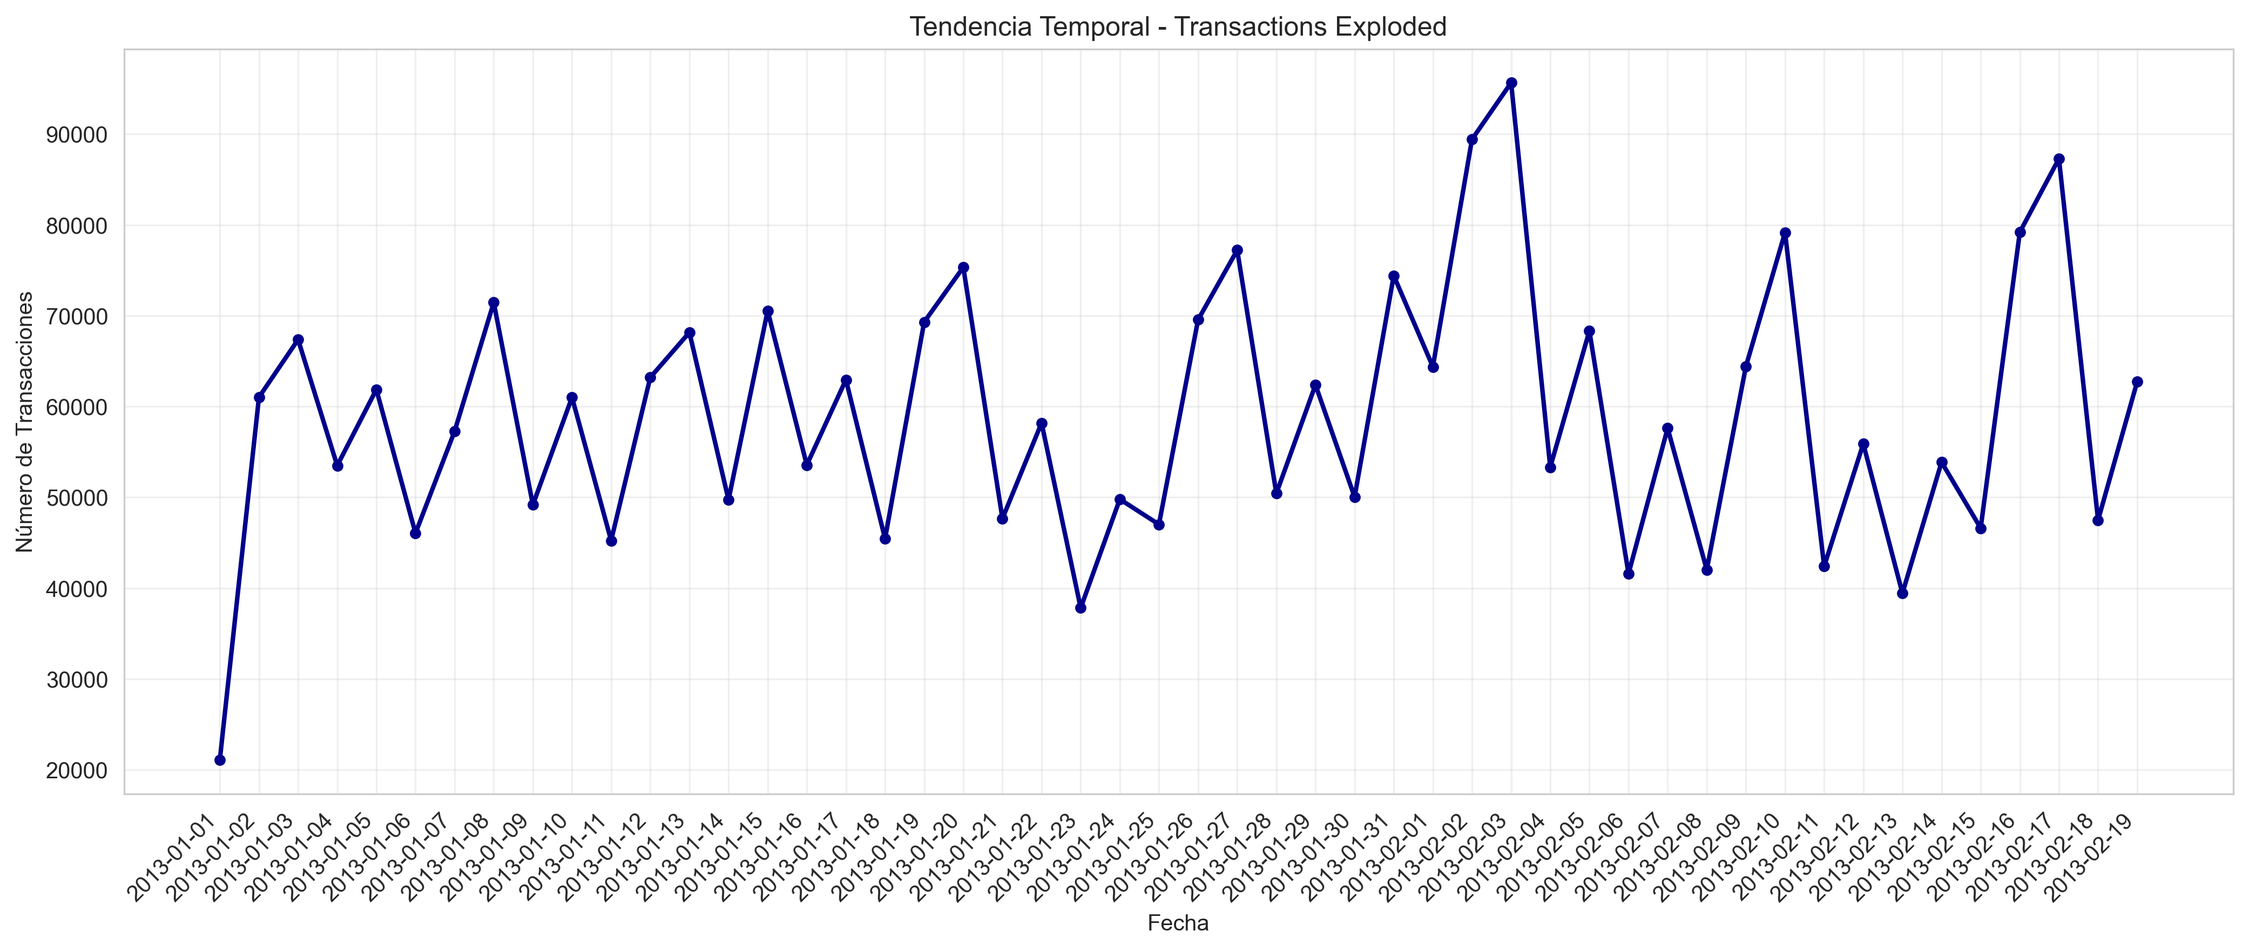
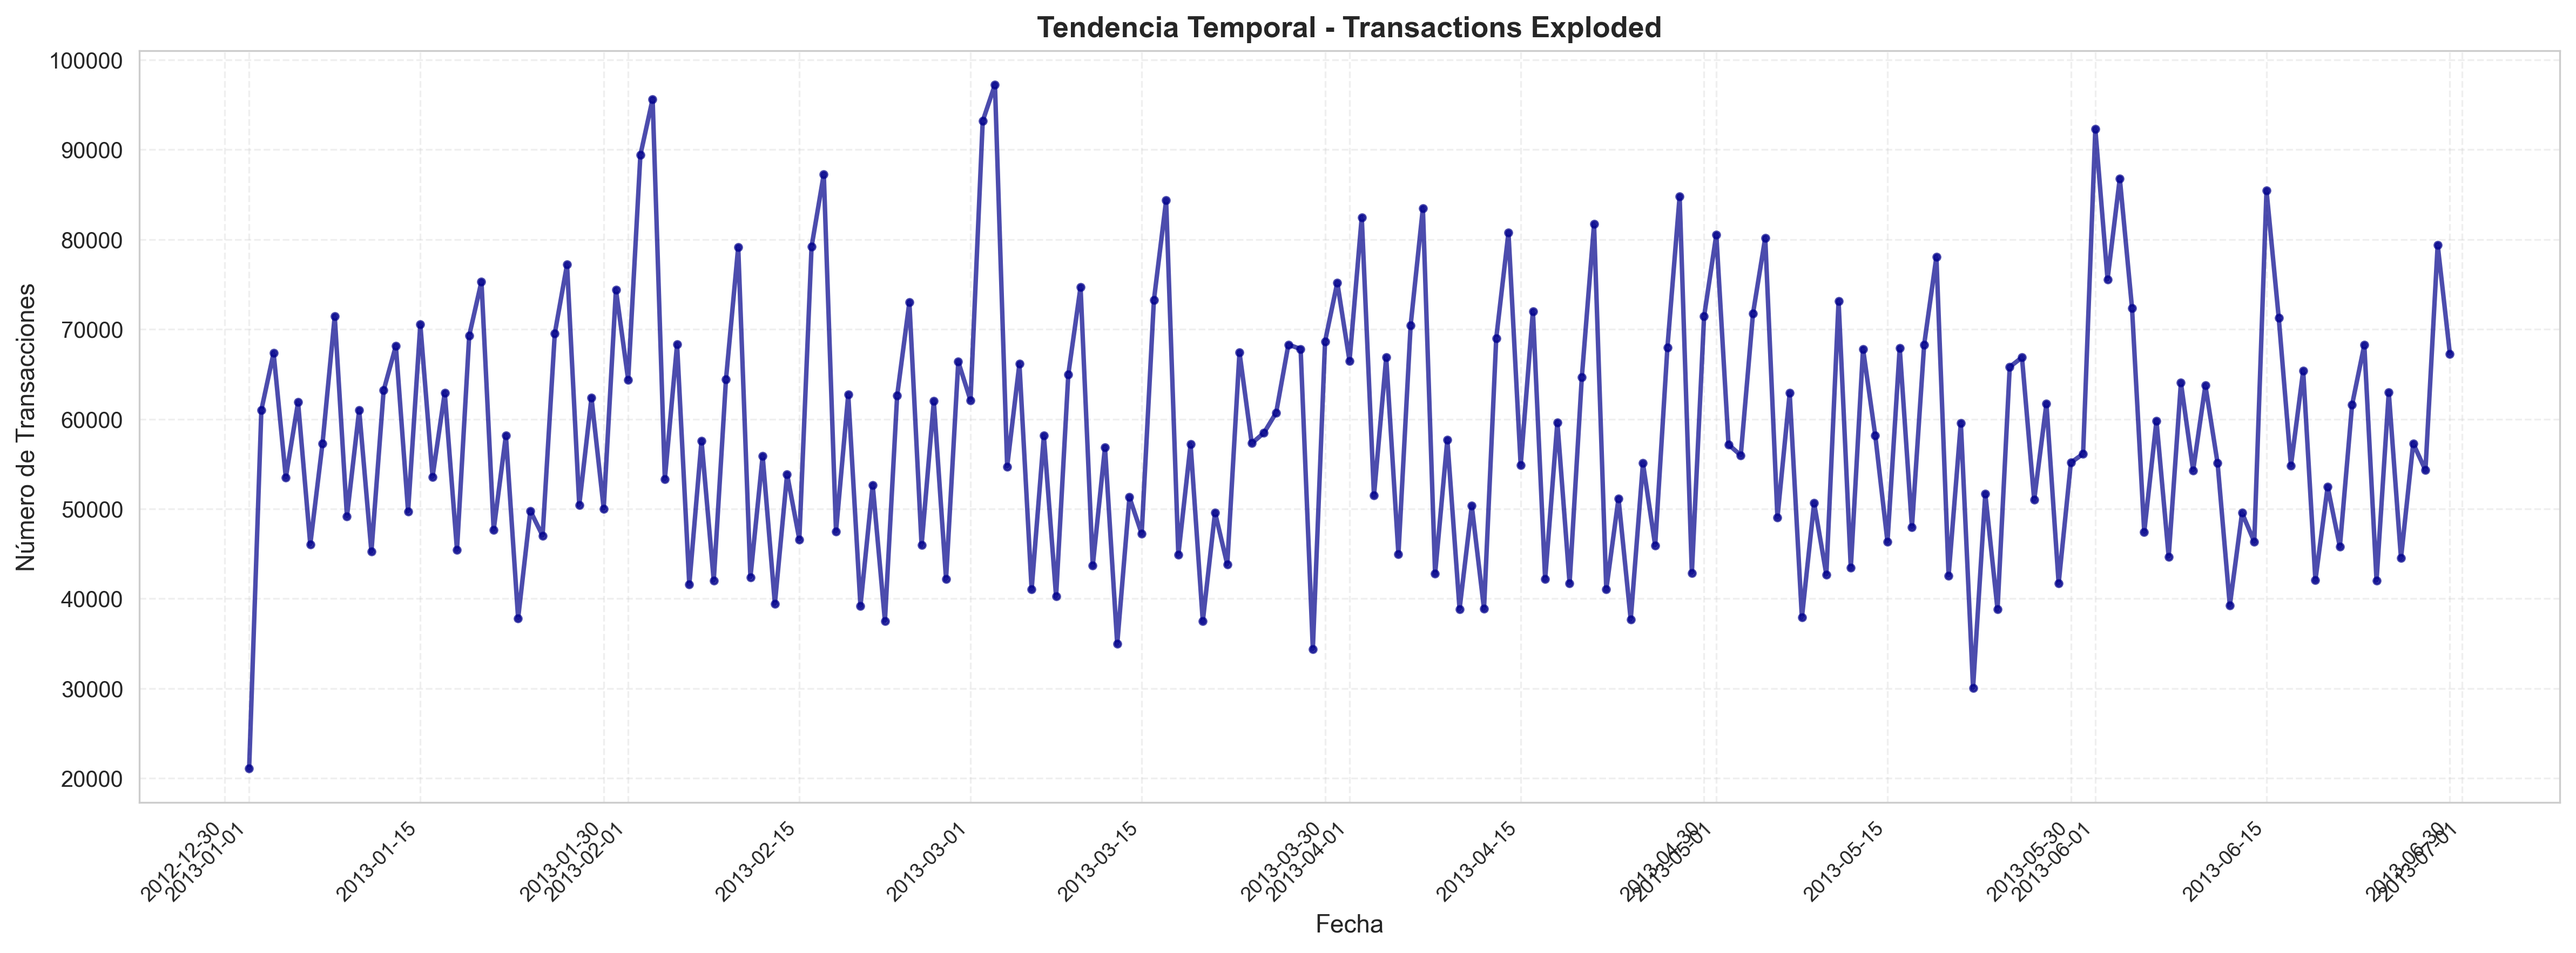
feat: enhance sales analytics pipeline with product count analysis and improve temporal trend visualization

diff --git a/src/visualizer.py b/src/visualizer.py
@@ -237,7 +237,7 @@ class DataVisualizer:
         print(f"   Gráfica guardada: {filepath}")
 
     def plot_temporal_trend(
-        self, df: DataFrame, date_column: str, dataset_name: str, sample_dates: int = 30
+        self, df: DataFrame, date_column: str, dataset_name: str, sample_dates: int = None
     ):
         """
         Genera gráfico de línea para tendencia temporal.
@@ -246,37 +246,52 @@ class DataVisualizer:
             df: DataFrame de Spark
             date_column: Columna de fecha
             dataset_name: Nombre del dataset
-            sample_dates: Número de fechas a mostrar (para evitar sobrecarga)
+            sample_dates: Número de fechas a mostrar
         """
         # Calcular transacciones por fecha
-        temporal_data = (
+        temporal_query = (
             df.groupBy(date_column)
             .agg(count("*").alias("count"))
             .orderBy(date_column)
-            .limit(sample_dates)
-            .toPandas()
         )
+        
+        if sample_dates:
+            temporal_query = temporal_query.limit(sample_dates)
+            
+        temporal_data = temporal_query.toPandas()
 
         if temporal_data.empty:
             print("ADVERTENCIA: No hay datos temporales para graficar")
             return
 
+        # Convertir columna de fecha a datetime para mejor manejo
+        import pandas as pd
+        temporal_data[date_column] = pd.to_datetime(temporal_data[date_column])
+
         # Crear gráfico
-        plt.figure(figsize=(14, 6))
+        plt.figure(figsize=(16, 6))
         plt.plot(
             temporal_data[date_column],
             temporal_data["count"],
             marker="o",
             linewidth=2,
-            markersize=4,
+            markersize=3,
             color="darkblue",
+            alpha=0.7
         )
 
-        plt.xlabel("Fecha")
-        plt.ylabel("Número de Transacciones")
-        plt.title(f"Tendencia Temporal - {dataset_name.replace('_', ' ').title()}")
-        plt.xticks(rotation=45, ha="right")
-        plt.grid(True, alpha=0.3)
+        plt.xlabel("Fecha", fontsize=11)
+        plt.ylabel("Número de Transacciones", fontsize=11)
+        plt.title(f"Tendencia Temporal - {dataset_name.replace('_', ' ').title()}", fontsize=13, fontweight='bold')
+        
+        # Configurar el eje X para mostrar días 1, 15 y 30 de cada mes (quincenas de pago)
+        import matplotlib.dates as mdates
+        ax = plt.gca()
+        ax.xaxis.set_major_locator(mdates.DayLocator(bymonthday=[1, 15, 30]))
+        ax.xaxis.set_major_formatter(mdates.DateFormatter('%Y-%m-%d'))
+        
+        plt.xticks(rotation=45, ha="right", fontsize=9)
+        plt.grid(True, alpha=0.3, linestyle='--')
         plt.tight_layout()
 
         # Guardar

diff --git a/src/pipeline.py b/src/pipeline.py
@@ -168,7 +168,17 @@ class SalesAnalyticsPipeline:
         self.eda_analyzer.analyze_missing_values(df_transactions, "transactions")
         self.eda_analyzer.analyze_duplicates(df_transactions, "transactions")
 
-        # Los IDs (store_id, customer_id) no requieren estadísticas como media o desviación
+        # Analizar cantidad de productos por transacción
+        from pyspark.sql.functions import size, split, trim, col
+        print("\n📊 Análisis de productos por transacción:")
+        print("-" * 60)
+        df_with_count = df_transactions.withColumn(
+            "num_productos", size(split(trim(col("products")), " "))
+        )
+        self.eda_analyzer.analyze_numeric_columns(
+            df_with_count, "transactions", numeric_columns=["num_productos"]
+        )
+
         # Analizamos cardinalidad y patrones de uso
         print("\n🔢 Análisis de cardinalidad de IDs:")
         print("-" * 60)
@@ -206,7 +216,7 @@ class SalesAnalyticsPipeline:
             ylabel="Customer ID",
         )
         self.visualizer.plot_temporal_trend(
-            df_transactions, "transaction_date", "transactions", sample_dates=50
+            df_transactions, "transaction_date", "transactions", sample_dates=None
         )
 
         df_transactions.unpersist()
@@ -280,7 +290,7 @@ class SalesAnalyticsPipeline:
             ylabel="Product ID",
         )
         self.visualizer.plot_temporal_trend(
-            df_exploded, "transaction_date", "transactions_exploded", sample_dates=50
+            df_exploded, "transaction_date", "transactions_exploded", sample_dates=None
         )
 
         df_exploded.unpersist()
